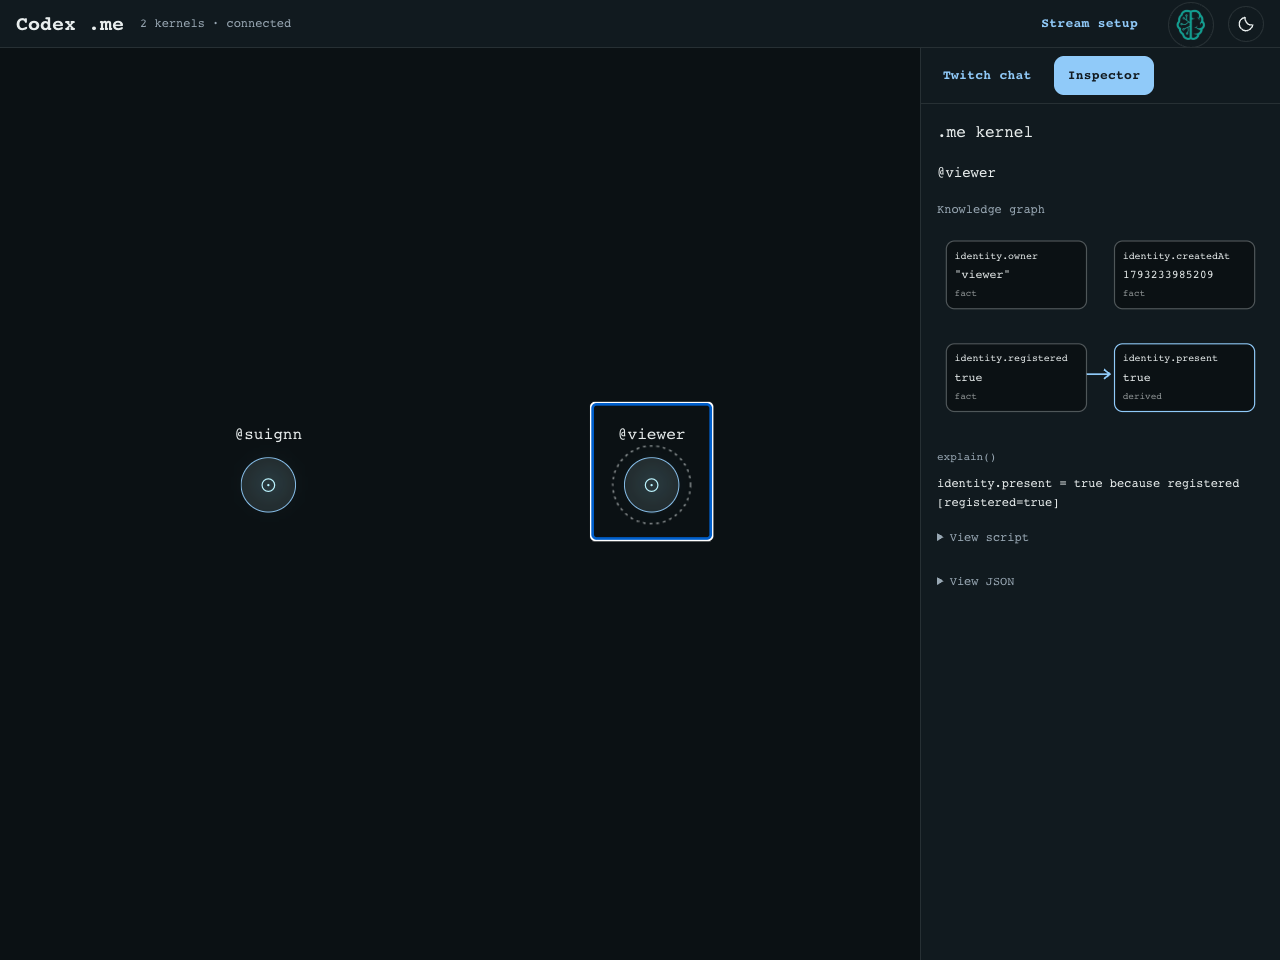
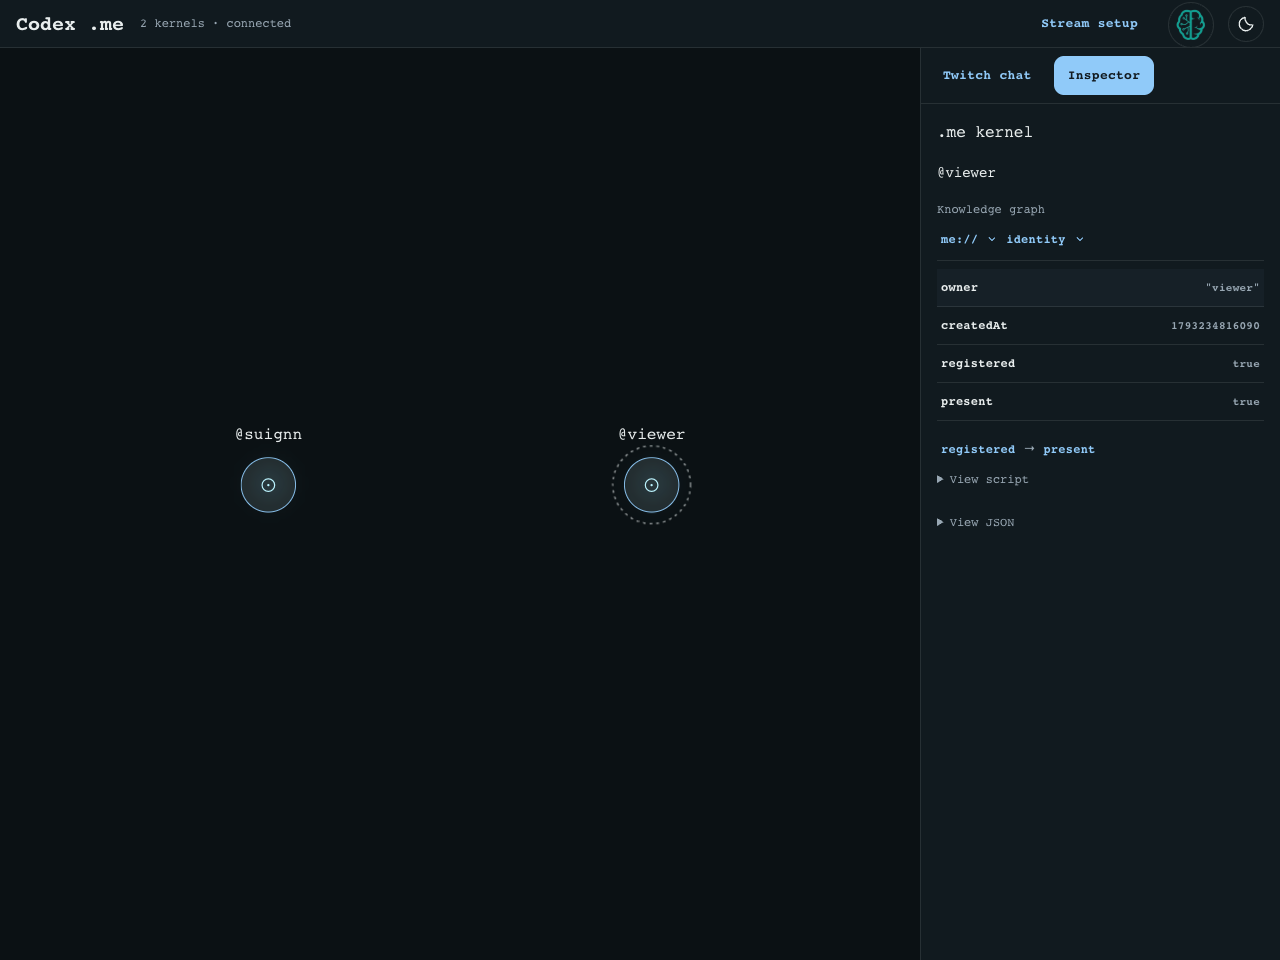
ui: navigate kernel graph by path levels and siblings

diff --git a/overlay/spiders.js b/overlay/spiders.js
@@ -1,3 +1,4 @@
+import { KnowledgeGraph } from './kernel-graph.js';
 import { TwitchChat } from './twitch-chat.js';
 import { createThemeControls } from './theme-controls.js';
 const G = window.GUI, h = React.createElement;
@@ -29,30 +30,9 @@ function Kernel({ kernel, index, count, selected, onSelect, face }) {
         h(G.Monad, { kind: 'me', variant: 'bubble', mode: 'contained', seed: kernel.owner, label: `@${kernel.owner} · .me`, solid: true, core: 'flat', ring: 1, tooltip: false }))),
     h('text', { 'data-me-label': kernel.owner, y: -34, textAnchor: 'middle', style: { ...mono, fontSize: 12, fill: 'currentColor' } }, `@${kernel.owner}`));
 }
-function KnowledgeGraph({ graph, path, selectPath }) {
-  const nodes = graph?.nodes || [], positions = new Map(nodes.map((node, i) => [node.path, { x: 8 + (i % 2) * 144, y: 12 + Math.floor(i / 2) * 88 }]));
-  return h(Box, { sx: theme => ({ color: 'text.primary', '--graph-node-bg': theme.palette.background.default, '--graph-accent': theme.palette.primary.main }) },
-    h('svg', { 'data-knowledge-graph': true, viewBox: `0 0 280 ${Math.max(100, Math.ceil(nodes.length / 2) * 88)}`, width: '100%', role: 'group', 'aria-label': 'Kernel knowledge graph', style: { display: 'block' } },
-      (graph?.edges || []).map((edge, i) => {
-        const source = positions.get(edge.source), target = positions.get(edge.target); if (!source || !target) return null;
-        const x1 = source.x + 120, y1 = source.y + 26, x2 = target.x - 4, y2 = target.y + 26;
-        return h('g', { key: i, 'data-graph-edge': `${edge.source}->${edge.target}` }, h('title', null, `${edge.target} depends on ${edge.source}`),
-          h('line', { x1, y1, x2, y2, stroke: 'var(--graph-accent)', strokeWidth: 1.5 }),
-          h('path', { d: `M${x2 - 5},${y2 - 4} L${x2},${y2} L${x2 - 5},${y2 + 4}`, fill: 'none', stroke: 'var(--graph-accent)', strokeWidth: 1.5 }));
-      }),
-      nodes.map(node => { const p = positions.get(node.path), value = JSON.stringify(node.value) ?? 'undefined';
-        return h('g', { key: node.path, 'data-graph-node': node.path, role: 'button', tabIndex: 0, 'aria-label': `${node.path} = ${value}`, onClick: () => selectPath(node.path),
-          onKeyDown: event => { if (event.key === 'Enter' || event.key === ' ') { event.preventDefault(); selectPath(node.path); } }, style: { cursor: 'pointer' } },
-          h('title', null, node.explanation),
-          h('rect', { x: p.x, y: p.y, width: 120, height: 58, rx: 7, fill: 'var(--graph-node-bg)', stroke: path === node.path ? 'var(--graph-accent)' : 'currentColor', strokeOpacity: path === node.path ? 1 : 0.3 }),
-          h('text', { x: p.x + 7, y: p.y + 15, fill: 'currentColor', style: { ...mono, fontSize: 8.5 } }, node.path),
-          h('text', { x: p.x + 7, y: p.y + 32, fill: 'currentColor', style: { ...mono, fontSize: 10 } }, value.length > 18 ? value.slice(0, 17) + '…' : value),
-          h('text', { x: p.x + 7, y: p.y + 47, fill: 'currentColor', opacity: 0.6, style: { ...mono, fontSize: 8 } }, node.kind));
-      })));
-}
 function App() {
   const [kernels, setKernels] = React.useState([]), [connected, setConnected] = React.useState(false), [selected, select] = React.useState(null);
-  const [path, selectPath] = React.useState('identity.present'), [face, setFace] = React.useState(null), [panel, setPanel] = React.useState('inspector');
+  const [path, selectPath] = React.useState(''), [face, setFace] = React.useState(null), [panel, setPanel] = React.useState('inspector');
   React.useEffect(() => { const timer = setInterval(() => setFace(value => value && Date.now() - value.at >= 2000 ? null : value), 500); return () => clearInterval(timer); }, []);
   React.useEffect(() => {
     let socket, timer, stopped = false, delay = 1000;
@@ -68,7 +48,7 @@ function App() {
   const current = kernels.find(kernel => kernel.id === selected), node = current?.graph?.nodes.find(node => node.path === path);
   const scene = h(Box, { component: 'main', sx: { minWidth: 0, minHeight: 0, height: '100%', position: 'relative', color: 'text.primary' } },
     h('svg', { id: 'kernels-scene', onClick: event => { if (event.target === event.currentTarget) select(null); }, viewBox: '0 0 1920 1080', width: '100%', height: '100%', role: 'img', 'aria-label': 'Community kernels', style: { display: 'block' } },
-      kernels.map((kernel, index) => h(Kernel, { key: kernel.id, kernel, index, count: kernels.length, selected: selected === kernel.id, face, onSelect: () => { select(kernel.id); selectPath('identity.present'); setPanel('inspector'); } }))),
+      kernels.map((kernel, index) => h(Kernel, { key: kernel.id, kernel, index, count: kernels.length, selected: selected === kernel.id, face, onSelect: () => { select(kernel.id); selectPath(''); setPanel('inspector'); } }))),
     !transparent && !kernels.length ? h(Box, { sx: { position: 'absolute', inset: 0, display: 'grid', placeContent: 'center', textAlign: 'center', px: 2, pointerEvents: 'none' } },
       h(Typography, { sx: { ...mono, fontSize: 24 } }, 'Your .me starts here.'), h(Typography, { sx: { ...mono, color: 'text.secondary', mt: 1 } }, 'Type !me in Twitch chat.')) : null);
   if (transparent) return h(Box, { sx: { width: 1920, height: 1080, bgcolor: 'transparent' } }, scene);

diff --git a/overlay/kernel-graph.js b/overlay/kernel-graph.js
@@ -1,0 +1,42 @@
+import { pathParts, joinPath, pathChildren } from './kernel-paths.js';
+const R = window.React, h = R.createElement, G = window.GUI;
+const { Box, Typography, Button } = G.Atoms;
+const { Menu, MenuItem } = G.Molecules;
+const mono = { fontFamily: '"IBM Plex Mono", ui-monospace, monospace' };
+export function KnowledgeGraph({ graph, path, selectPath }) {
+  const [menu, setMenu] = R.useState(null);
+  const nodes = graph?.nodes || [], parts = pathParts(path), children = pathChildren(nodes, path);
+  const current = nodes.find(node => node.path === path), visible = new Set(children.map(child => child.path));
+  const edges = (graph?.edges || []).filter(edge => visible.has(edge.source) && visible.has(edge.target));
+  const go = value => { setMenu(null); selectPath(value); };
+  const button = { ...mono, textTransform: 'none', minWidth: 0, px: 0.5, py: 0.25, fontSize: 12 };
+  const arrow = (parent, label) => h(Button, { size: 'small', 'aria-label': label, 'aria-haspopup': 'menu', 'aria-expanded': !!menu && menu.label === label,
+    onClick: event => setMenu({ anchor: event.currentTarget, parent, label }), sx: { ...button, px: 0.25 } },
+    h('svg', { 'aria-hidden': true, width: 12, height: 12, viewBox: '0 0 12 12', fill: 'none', stroke: 'currentColor', strokeWidth: 1.4 }, h('path', { d: 'M3 4.5 6 7.5 9 4.5' })));
+  return h(Box, { 'data-knowledge-graph': true },
+    h(Box, { component: 'nav', 'aria-label': 'Kernel path', 'data-kernel-path': path, sx: { display: 'flex', flexWrap: 'wrap', alignItems: 'center', gap: 0.25, borderBottom: 1, borderColor: 'divider', pb: 1, mb: 1 } },
+      h(Button, { size: 'small', onClick: () => go(''), 'aria-label': 'Go to kernel root', sx: button }, 'me://'),
+      arrow('', 'Children of me://'),
+      ...parts.map((part, i) => {
+        const target = joinPath(parts.slice(0, i + 1)), parent = joinPath(parts.slice(0, i));
+        return h(R.Fragment, { key: target },
+          i ? h(Typography, { 'aria-hidden': true, sx: { ...mono, fontSize: 12, color: 'text.secondary' } }, '/') : null,
+          h(Button, { size: 'small', onClick: () => go(target), 'aria-current': i === parts.length - 1 ? 'location' : undefined, 'aria-label': `Open path ${target}`, sx: button }, part),
+          arrow(parent, `Siblings of ${target}`));
+      })),
+    h(Menu, { anchorEl: menu?.anchor || null, open: !!menu, onClose: () => setMenu(null), MenuListProps: { 'aria-label': menu?.label || 'Path choices' } },
+      pathChildren(nodes, menu?.parent || '').map(child => h(MenuItem, { key: child.path, selected: child.path === path, 'data-path-option': child.path, onClick: () => go(child.path), sx: { ...mono, fontSize: 12 } }, child.name))),
+    h(Box, { 'data-path-children': path, sx: { mb: 2 } }, children.map(child => h(Button, {
+      key: child.path, 'data-graph-node': child.node ? child.path : undefined, 'data-graph-branch': child.branch ? child.path : undefined,
+      'aria-label': `Open ${child.path}`, onClick: () => go(child.path), title: child.node?.explanation,
+      sx: { ...mono, display: 'flex', width: '100%', justifyContent: 'space-between', gap: 1, textTransform: 'none', color: 'text.primary', borderBottom: 1, borderColor: 'divider', borderRadius: 0, py: 1, px: 0.5, fontSize: 12 } },
+      h(Box, { component: 'span', sx: { flexShrink: 0 } }, child.name),
+      h(Box, { component: 'span', sx: { minWidth: 0, overflow: 'hidden', textOverflow: 'ellipsis', whiteSpace: 'nowrap', color: 'text.secondary', fontSize: 11 } }, child.branch ? '›' : JSON.stringify(child.node?.value) ?? 'undefined')))),
+    current ? h(Box, { 'data-path-value': path, sx: { mb: 2 } },
+      h(Typography, { sx: { ...mono, fontSize: 14, overflowWrap: 'anywhere' } }, JSON.stringify(current.value) ?? 'undefined'),
+      h(Typography, { sx: { ...mono, fontSize: 11, color: 'text.secondary', mt: 0.5 } }, current.kind)) : null,
+    edges.length ? h(Box, { sx: { my: 1 } }, edges.map((edge, i) => h(Box, { key: i, 'data-graph-edge': `${edge.source}->${edge.target}`, sx: { display: 'flex', flexWrap: 'wrap', alignItems: 'center', gap: 0.5 } },
+      h(Button, { size: 'small', onClick: () => go(edge.source), sx: button }, pathParts(edge.source).at(-1)),
+      h(Typography, { component: 'span', title: `${edge.target} depends on ${edge.source}`, sx: { fontSize: 12, color: 'text.secondary' } }, '→'),
+      h(Button, { size: 'small', onClick: () => go(edge.target), sx: button }, pathParts(edge.target).at(-1))))) : null);
+}

diff --git a/overlay/kernel-paths.js b/overlay/kernel-paths.js
@@ -1,0 +1,16 @@
+// UI-only path grouping over real memory paths; a branch is not a synthetic kernel fact.
+export const pathParts = path => String(path || '').match(/[^.[\]]+|\[\d+\]/g) || [];
+export const joinPath = parts => parts.reduce((path, part) => path + (part.startsWith('[') ? '' : path ? '.' : '') + part, '');
+export function pathChildren(nodes, parent = '') {
+  const prefix = pathParts(parent), children = new Map();
+  for (const node of nodes || []) {
+    const parts = pathParts(node.path);
+    if (parts.length <= prefix.length || !prefix.every((part, i) => parts[i] === part)) continue;
+    const path = joinPath(parts.slice(0, prefix.length + 1));
+    if (!children.has(path)) children.set(path, { path, name: parts[prefix.length], node: null, branch: false });
+    const child = children.get(path);
+    if (parts.length === prefix.length + 1) child.node = node;
+    else child.branch = true;
+  }
+  return [...children.values()];
+}

diff --git a/evidence/SESSION.md b/evidence/SESSION.md
@@ -298,3 +298,12 @@ The owner asked whether the graph repeats the lower script, then requested JSON 
 Original ten tests and 19 server checks passed. New tools/kernel-check.mjs passed with real kernels/server/ws/browser and simulated Twitch: graph values against direct kernel reads, genuine dependency inputs/explanations, separate viewers, no robot facts/rendering, empty selection, script/JSON collapse, deduplication/threaded replies and synchronized web/OBS. Synthetic camera regression also passed after waiting for the visible follow transition before measuring its final position. Offline results are separate from live proof.
 
 Restarted only the confirmed codex-me :3017 process after warning that viewer memory would reset; EventSub resubscribed. Visually verified the real app's native bubble, actual graph and selected explanation, then observed suignn and jabellae kernels in the new live scene. The owner's current Cherry Byte/light theme was preserved. The new jabellae threaded reply was not independently verified. Did not send real chat, restart OBS or change broadcast settings. Current web materials: evidence/kernels/live-graph.png and live-json.png; offline results: evidence/kernels/result.json. Real face/camera alignment remains unverified.
+
+
+### 2026-10-28 — navigate the knowledge graph by path levels
+
+The owner requested the same-level dropdown/path breakdown pattern seen in their me:// GUI navigation, rather than repeating identity on every flat card. Replaced the card diagram with a local path browser built with existing GUI buttons, Menu and MenuItem. The root lists identity; entering that branch lists owner, createdAt, registered and present with their real values. Breadcrumb labels navigate to ancestors and chevrons list siblings for that path level. A leaf shows its value/kind and genuine explain() output. The registered→present dependency remains a clickable relation within the identity branch. Script and JSON remain optional collapsed views.
+
+This only groups actual memory paths for display; a structural branch is not fabricated as a stored kernel fact, and me:// in this breadcrumb does not invoke a new remote/address API. No backend/kernel modifications, server restart or chat messages. The graph UI now lives in overlay/kernel-graph.js with pure path grouping in overlay/kernel-paths.js.
+
+The existing offline kernel integration check passed after adding root/branch/leaf/sibling/breadcrumb tests, plus deeper array-path grouping and same-prefix namespace separation. Real-browser verification showed the short-name identity list, leaf explanation and four same-level choices; a later fresh observation showed the selected owner value. Preserved the owner's current theme changes and current path. Screenshots: evidence/kernels/path-children.png and path-siblings.png.

diff --git a/README.md b/README.md
@@ -47,7 +47,7 @@ The grammar is an allowlist, never JavaScript evaluation. It does not permit cha
 
 The initial kernel has `identity.owner`, `identity.createdAt`, `identity.registered` and `identity.present`. The last value is derived by the actual `registered` rule. Graph nodes come from public `exportSnapshot().memories`; their displayed values are read through `me(path)`. Dependency edges come from `me.explain(path).derivation.inputs`, not from an inferred model or fabricated graph. For example, `identity.registered → identity.present` is a real dependency. This first graph is intentionally small.
 
-The inspector shows one explanation at a time. **View script** is collapsed by default to avoid repeating the graph; it uses the existing GUI `CodeBlock` for the actual JavaScript construction script. The object inspector is separate from GUI's general semantic/interface inspector and browser DOM developer tools. Selecting graph nodes only reads state; it does not execute or rewrite scripts. Face following changes presentation only and does not invent kernel facts or explanation results.
+The inspector navigates the graph by path: `me://` lists root branches; opening `identity` lists `owner`, `createdAt`, `registered` and `present` without repeating the prefix. Breadcrumb segments return to ancestors; each arrow lists siblings at that level. Opening a leaf shows its value and real explanation. Branches are UI groups derived from memory paths, not invented stored facts or a new namespace-read API. Real dependency links remain clickable inside their parent branch. The `me://` breadcrumb is a local display, not a remote-address operation. The inspector shows one explanation at a time. **View script** is collapsed by default to avoid repeating the graph; it uses the existing GUI `CodeBlock` for the actual JavaScript construction script. The object inspector is separate from GUI's general semantic/interface inspector and browser DOM developer tools. Selecting graph nodes only reads state; it does not execute or rewrite scripts. Face following changes presentation only and does not invent kernel facts or explanation results.
 
 ## Chat, web and OBS
 
